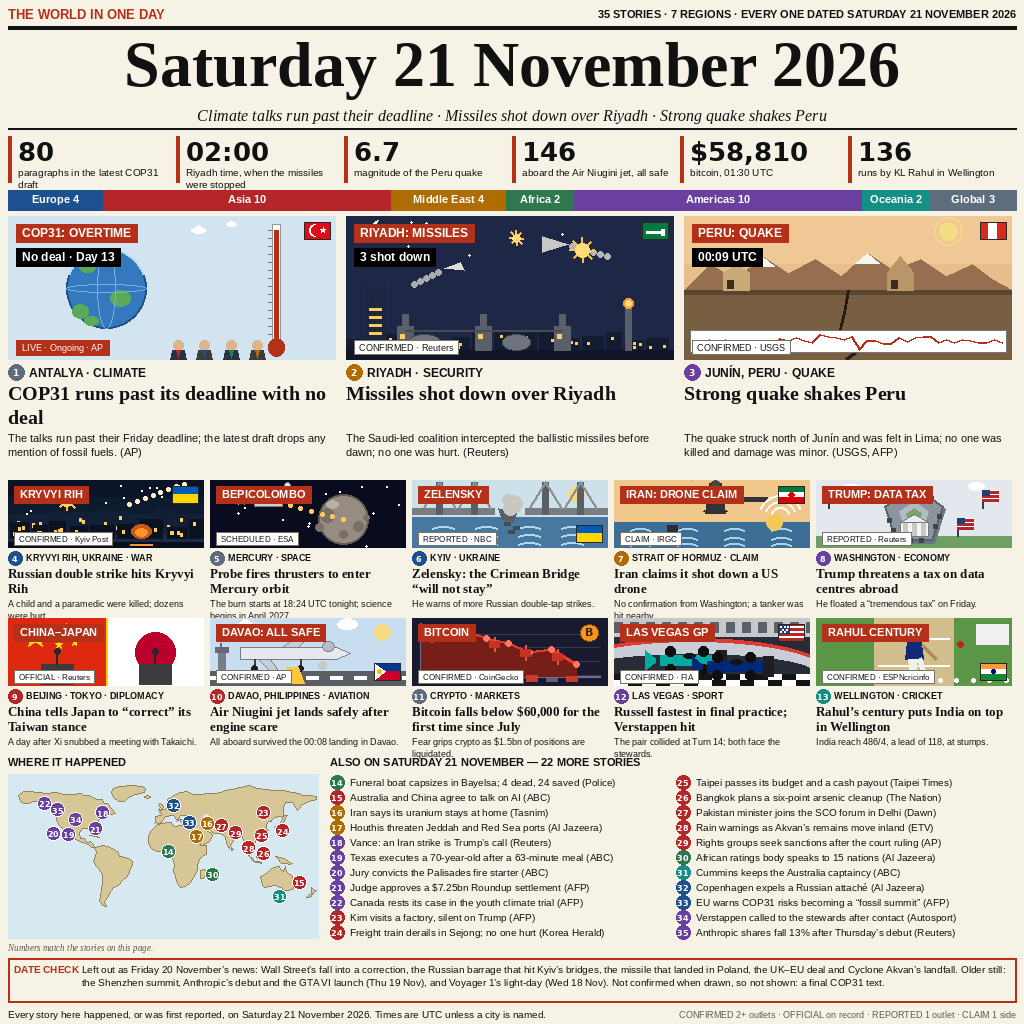
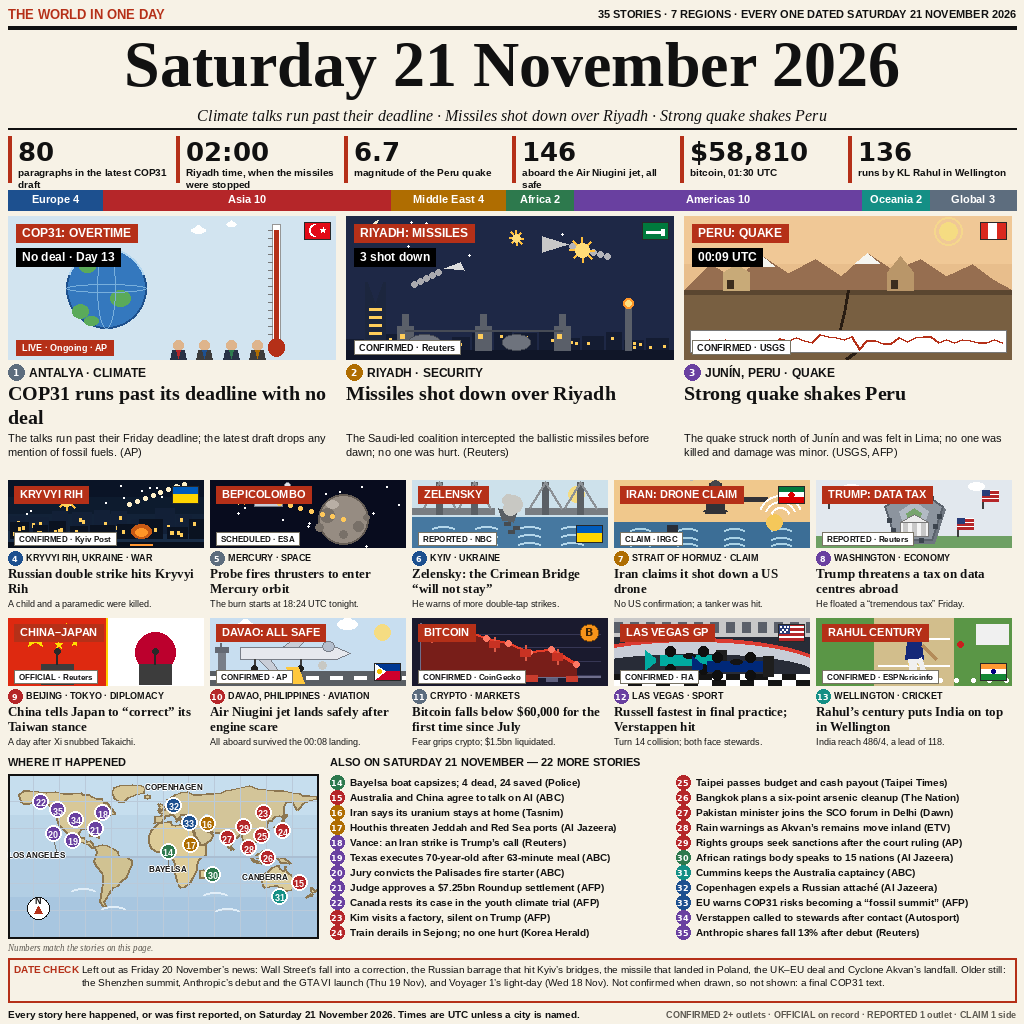
v3: fix ALSO ON SATURDAY collision, bold list/tags/captions/footer, redesigned map (gradient sea, tints, graticule, compass, city labels, pins r=8)

diff --git a/main.py b/main.py
@@ -7,6 +7,11 @@
 # on the ongoing COP31 talks, and richer illustrations. The image itself
 # is unchanged in skeleton (35 stories, 7 regions, DATE CHECK intact).
 #
+# v3: small-card bodies capped at 1 line (fixes the ALSO ON SATURDAY
+# heading collision), list/tags/captions/footer in bold, map redesigned
+# (sea gradient, per-continent tints, graticule, compass, 4 city labels,
+# pins r=8 with >=16px separation).
+#
 # Outside the grader's container, MAKEFUN_OUTPUT_DIR stands in for /output:
 #   mkdir -p out && MAKEFUN_OUTPUT_DIR=out python3 main.py
 
